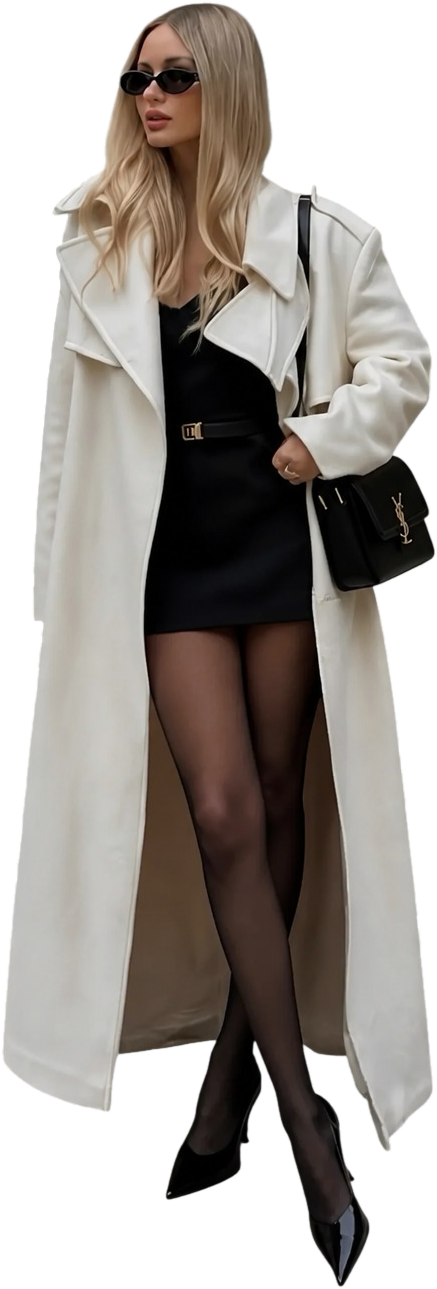
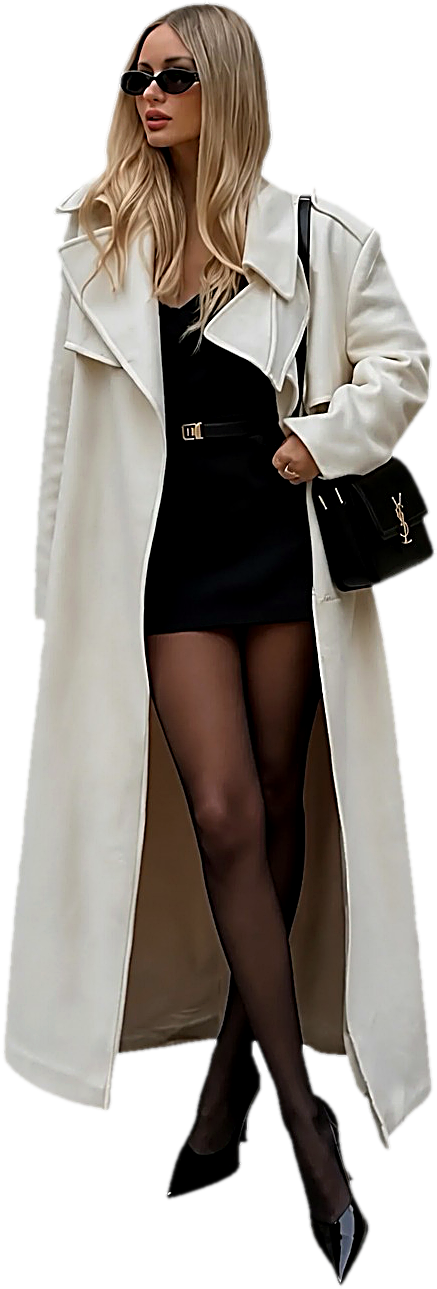
Fashion style carousel: per-style type, clean cutouts, 3D depth
- Remove giant ghost word; each style now sets its own artistic typeface
  (Bungee / Quicksand / Bodoni italic / Yatra One) that swaps with the name
- De-fringe + edge-decontaminate all four model cutouts (no white halo);
  remove leftover studio-background blob at the streetwear model's neck
- Add mini pedestal disc + grounded drop-shadow per figure for 3D depth and
  to separate light shoes/fabric from light backdrops
- Sharpen/contrast pass on the PNGs for clarity

diff --git a/components/StyleCarousel.css b/components/StyleCarousel.css
@@ -1,5 +1,5 @@
 /* ── Shop by style carousel ─────────────────────────────────────
-   Full-bleed stage: giant ghost word behind, cut-out models in front,
+   Full-bleed stage: cut-out models front and centre,
    copy bottom-left and a "discover" link bottom-right. Colours come
    from the component (they change per slide), everything else here. */
 
@@ -11,17 +11,6 @@
   pointer-events: none;
   background-repeat: repeat; background-size: 200px 200px;
   opacity: .4;
-}
-
-.stylecar__ghost {
-  position: absolute; left: 0; right: 0; top: 16%;
-  z-index: 2;
-  display: flex; align-items: center; justify-content: center;
-  pointer-events: none; user-select: none; white-space: nowrap;
-  font-family: "Anton", "Montserrat", sans-serif; font-weight: 400;
-  font-size: clamp(46px, 12.5vw, 220px); line-height: 1;
-  letter-spacing: -.02em; text-transform: uppercase;
-  color: currentColor;
 }
 
 .stylecar__brand {
@@ -41,17 +30,56 @@
   width: 100%; height: 100%;
   object-fit: contain; object-position: bottom center;
   -webkit-user-drag: none;
+  position: relative; z-index: 1;
+  /* Depth + separation: a grounded cast shadow lifts the figure off the
+     backdrop (the 3D), and a tight halo-shadow traces the silhouette so
+     light shoes / cream fabric never dissolve into a light slide. */
+  filter:
+    drop-shadow(0 14px 20px rgba(0,0,0,.42))
+    drop-shadow(0 3px 6px rgba(0,0,0,.30))
+    drop-shadow(0 0 1.4px rgba(0,0,0,.34));
+}
+
+/* Mini pedestal — a soft round disc the figure appears to stand on. Two
+   layers behind the model: a cast shadow (::before) and the lit disc top
+   (::after). Both are white/black alpha so they read on every slide colour,
+   and both scale with the figure width so side + back roles get a smaller
+   disc automatically. */
+.stylecar__figure::before,
+.stylecar__figure::after {
+  content: ""; position: absolute; left: 50%; bottom: 0;
+  border-radius: 50%; pointer-events: none;
+}
+.stylecar__figure::before {          /* cast shadow on the ground */
+  width: 76%; aspect-ratio: 4.2 / 1; z-index: 0;
+  transform: translate(-50%, 60%);
+  background: radial-gradient(ellipse at center,
+    rgba(0,0,0,.44), rgba(0,0,0,.16) 44%, transparent 72%);
+  filter: blur(4px);
+}
+.stylecar__figure::after {           /* lit disc the feet rest on */
+  width: 60%; aspect-ratio: 3 / 1; z-index: 0;
+  transform: translate(-50%, 42%);
+  background: radial-gradient(ellipse at 50% 32%,
+    rgba(255,255,255,.34), rgba(255,255,255,.12) 42%, transparent 68%);
 }
 
 .stylecar__copy {
   position: absolute; bottom: 1.5rem; left: 1rem; z-index: 60;
   max-width: 320px;
 }
+/* family / size / tracking all arrive inline from the active slide — this
+   only holds what stays constant across the four faces */
 .stylecar__title {
   margin-bottom: .5rem;
-  font-family: var(--font-accent); font-weight: 700;
-  font-size: 1rem; letter-spacing: .16em; text-transform: uppercase;
+  line-height: 1.1;
   opacity: .95;
+  animation: stylecar-type 500ms cubic-bezier(.4,0,.2,1) both;
+}
+
+@keyframes stylecar-type {
+  from { opacity: 0; transform: translateY(.4em); letter-spacing: .3em; }
+  to   { opacity: .95; transform: none; }
 }
 .stylecar__blurb { display: none; }
 .stylecar__nav { display: flex; gap: .75rem; }
@@ -79,7 +107,7 @@
 @media (min-width: 640px) {
   .stylecar__brand { left: 2rem; }
   .stylecar__copy { bottom: 5rem; left: 6rem; }
-  .stylecar__title { font-size: 1.375rem; margin-bottom: .75rem; }
+  .stylecar__title { margin-bottom: .75rem; }
   .stylecar__blurb {
     display: block; margin-bottom: 1.25rem;
     font-size: .875rem; line-height: 1.6; opacity: .85;
@@ -91,4 +119,5 @@
 
 @media (prefers-reduced-motion: reduce) {
   .stylecar, .stylecar__figure { transition: none !important; }
+  .stylecar__title { animation: none; }
 }

diff --git a/components/StyleCarousel.js b/components/StyleCarousel.js
@@ -10,6 +10,11 @@ import { useCallback, useEffect, useRef, useState } from "react";
 import { ArrowLeft, ArrowRight } from "lucide-react";
 import "./StyleCarousel.css";
 
+/* Each style sets its own type, so the name reads as the thing it names:
+   urban signage for street wear, soft rounded for comfort, a high-fashion
+   didone for timeless, a Devanagari-flavoured face for traditional. The
+   faces differ enormously in weight and x-height, so size/tracking travel
+   with the family rather than living in the stylesheet. */
 const SLIDES = [
   {
     name: "Street Wear",
@@ -17,6 +22,13 @@ const SLIDES = [
     alt: "Woman in a white racer tank and navy wide-leg track pants — streetwear at Sage Thread Boutique Bangalore",
     bg: "#1B2A4E",
     ink: "#ffffff",
+    type: {
+      fontFamily: '"Bungee", "Anton", sans-serif',
+      fontWeight: 400,
+      fontSize: "clamp(1.25rem, 2.4vw, 1.85rem)",
+      letterSpacing: ".02em",
+      textTransform: "uppercase",
+    },
   },
   {
     name: "Comfort Clothes",
@@ -24,6 +36,13 @@ const SLIDES = [
     alt: "Woman in an oatmeal hoodie and matching joggers — comfort wear at Sage Thread Boutique Bangalore",
     bg: "#A49A87",
     ink: "#ffffff",
+    type: {
+      fontFamily: '"Quicksand", "Montserrat", sans-serif',
+      fontWeight: 600,
+      fontSize: "clamp(1.5rem, 3vw, 2.3rem)",
+      letterSpacing: ".14em",
+      textTransform: "lowercase",
+    },
   },
   {
     name: "Timeless Fashion",
@@ -32,6 +51,14 @@ const SLIDES = [
     bg: "#F2EADC",
     /* white would vanish on cream — this slide runs on the site's dark ink */
     ink: "#1D1419",
+    type: {
+      fontFamily: '"Bodoni Moda", "Italiana", serif',
+      fontWeight: 400,
+      fontStyle: "italic",
+      fontSize: "clamp(1.6rem, 3.4vw, 2.6rem)",
+      letterSpacing: ".06em",
+      textTransform: "none",
+    },
   },
   {
     name: "Traditional",
@@ -39,6 +66,13 @@ const SLIDES = [
     alt: "Woman in a mirror-work blouse and printed sharara with a cape — traditional Indian wear at Sage Thread Boutique Bangalore",
     bg: "#B9836F",
     ink: "#ffffff",
+    type: {
+      fontFamily: '"Yatra One", "Bodoni Moda", serif',
+      fontWeight: 400,
+      fontSize: "clamp(1.5rem, 3vw, 2.3rem)",
+      letterSpacing: ".04em",
+      textTransform: "none",
+    },
   },
 ];
 
@@ -163,10 +197,6 @@ export default function StyleCarousel() {
       >
         <div className="stylecar__grain" style={{ backgroundImage: GRAIN }} />
 
-        <div className="stylecar__ghost" aria-hidden="true">
-          {slide.name}
-        </div>
-
         <div className="stylecar__track">
           {SLIDES.map((s, i) => {
             const role = roleOf(i);
@@ -186,7 +216,11 @@ export default function StyleCarousel() {
         </div>
 
         <div className="stylecar__copy">
-          <p className="stylecar__title">{slide.name}</p>
+          {/* keyed on the name so React swaps the node and the fade-in
+              replays each time the style changes */}
+          <p key={slide.name} className="stylecar__title" style={slide.type}>
+            {slide.name}
+          </p>
           <p className="stylecar__blurb">
             Pieces chosen one at a time, fitted in the atelier and finished by hand. Walk in, try the
             rail, leave with a wardrobe that already fits. Book a styling visit.

diff --git a/app/fashion/page.js b/app/fashion/page.js
@@ -55,7 +55,7 @@ export default function FashionPage() {
       <link rel="preconnect" href="https://fonts.googleapis.com" />
       <link rel="preconnect" href="https://fonts.gstatic.com" crossOrigin="" />
       <link
-        href="https://fonts.googleapis.com/css2?family=Anton&family=Bodoni+Moda:ital,opsz,wght@0,6..96,400;0,6..96,500;1,6..96,400&family=Italiana&family=Montserrat:wght@300;400;500&family=Pinyon+Script&display=swap"
+        href="https://fonts.googleapis.com/css2?family=Anton&family=Bodoni+Moda:ital,opsz,wght@0,6..96,400;0,6..96,500;1,6..96,400&family=Bungee&family=Italiana&family=Montserrat:wght@300;400;500&family=Pinyon+Script&family=Quicksand:wght@500;600&family=Yatra+One&display=swap"
         rel="stylesheet"
       />
       <link rel="preload" as="image" href="/assets/img/fashion-hero-beach.jpg" />
